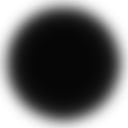
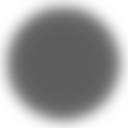
Add counter for the max link, and new shadow.png

diff --git a/js/game.js b/js/game.js
@@ -143,6 +143,20 @@ var BoidLevel = {
     "data/tulip.osgjs": 11
 };
 
+function computeMaxLink(player) {
+    var counter = 0;
+    var next = player.child;
+    while(next) {
+	next = next.child;
+        counter++;
+    }
+    if (counter > computeMaxLink.maxValue) {
+        osg.log("new record, you linked " + counter + " monster");
+        computeMaxLink.maxValue = counter;
+    }
+}
+computeMaxLink.maxValue = 0;
+
 function newBoid(id, x, y, u, v, color, url) {
     var col = color == CONF.WHITE ? "white" : "black";
     var g = new BoidGeometry(col, url);
@@ -264,6 +278,8 @@ function newBoid(id, x, y, u, v, color, url) {
 		    var audio = $(snd).get(0);
 		    audio.currentTime = 0;
 		    audio.play();
+
+                    computeMaxLink(space.player1);
 
                     return;
                 }
